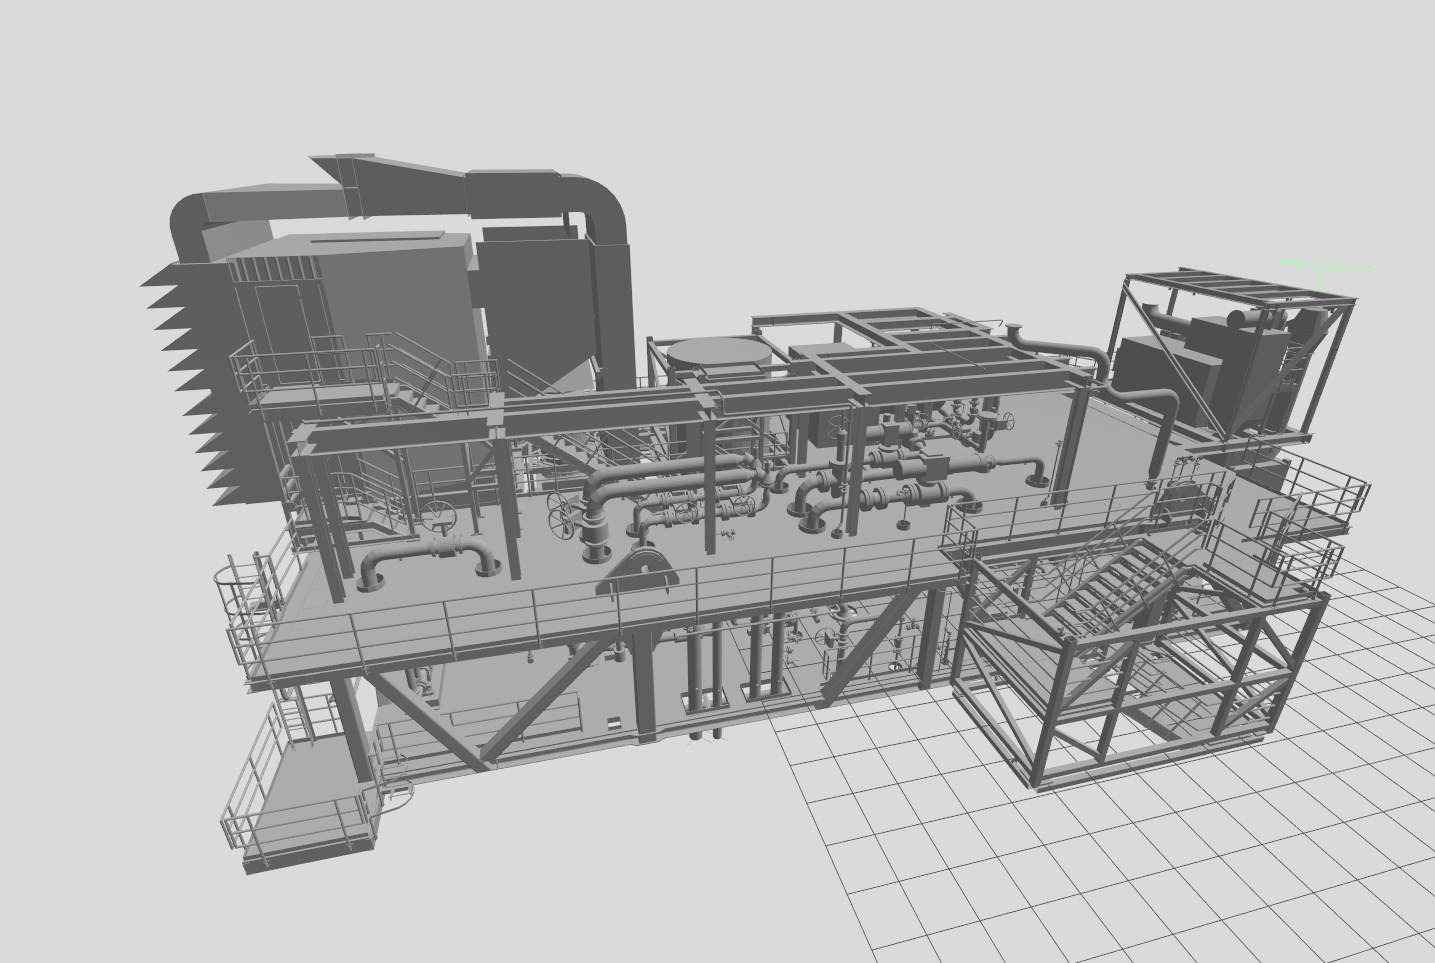
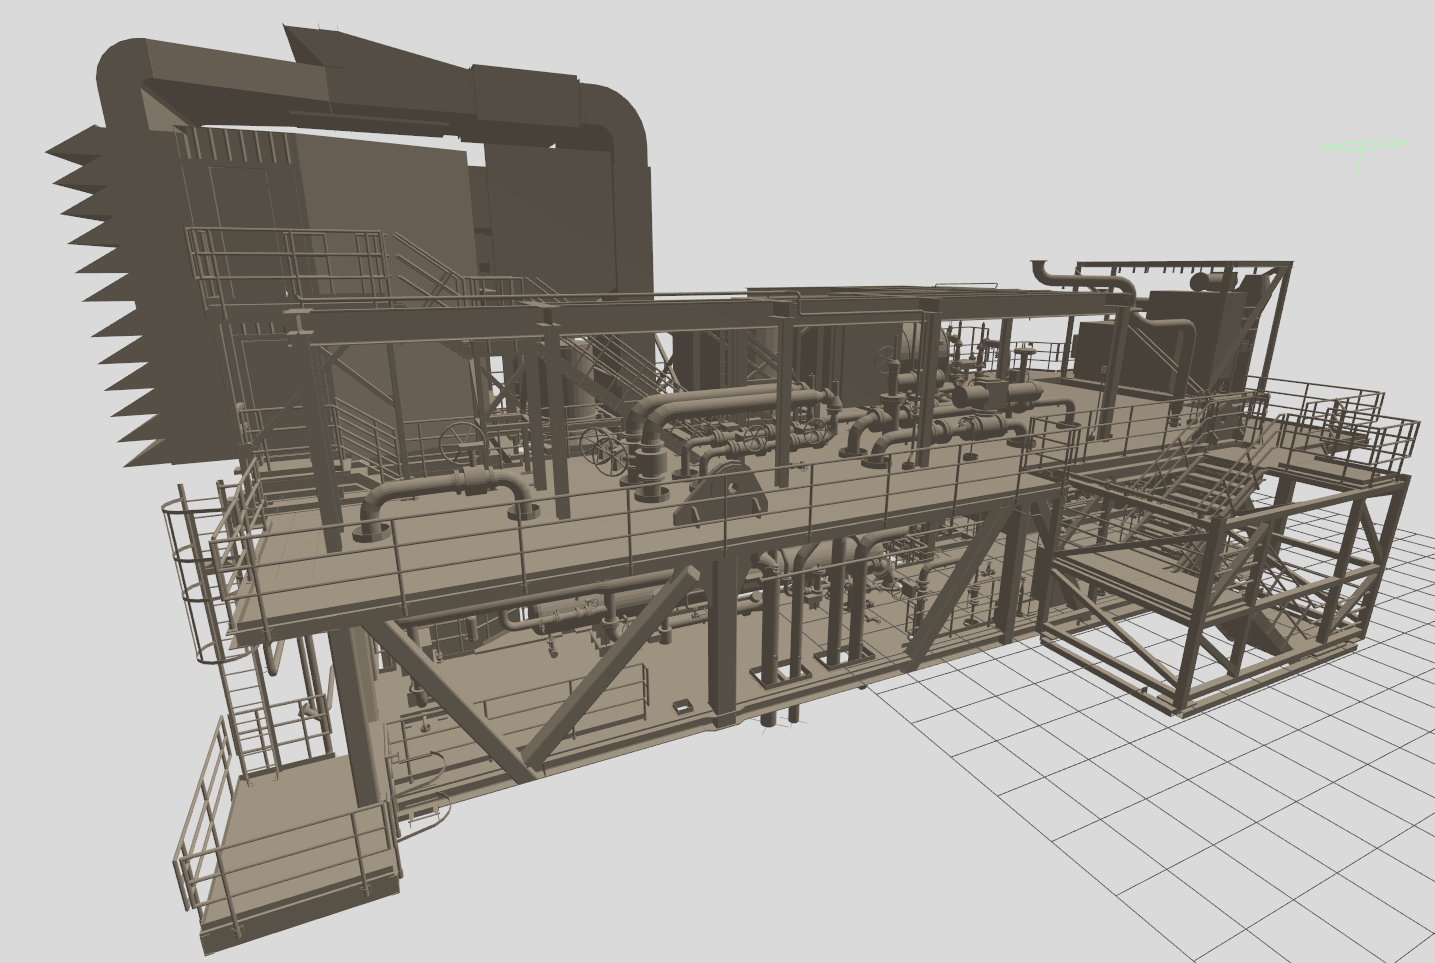
Improve Huldra model coloring and documentation
Change the platform material color to improve visualization and contrast in Gazebo.

Update the repository thumbnail to reflect the new model appearance.

Document the NOTICE and third-party license files in the README package layout.

diff --git a/README.md b/README.md
@@ -65,6 +65,8 @@ rosdep install --from-paths src --ignore-src -r -y
 - `CONTRIBUTING.md`: contains the contribution guidelines.
 - `LICENSE`: contains the project license.
 - `CHANGELOG.md`: records relevant changes for each package version.
+- `NOTICE`: contains attribution and additional information about third-party material.
+- `THIRD_PARTY_LICENSES/`: contains the license terms applicable to third-party material.
 
 ## Building and installation
 
